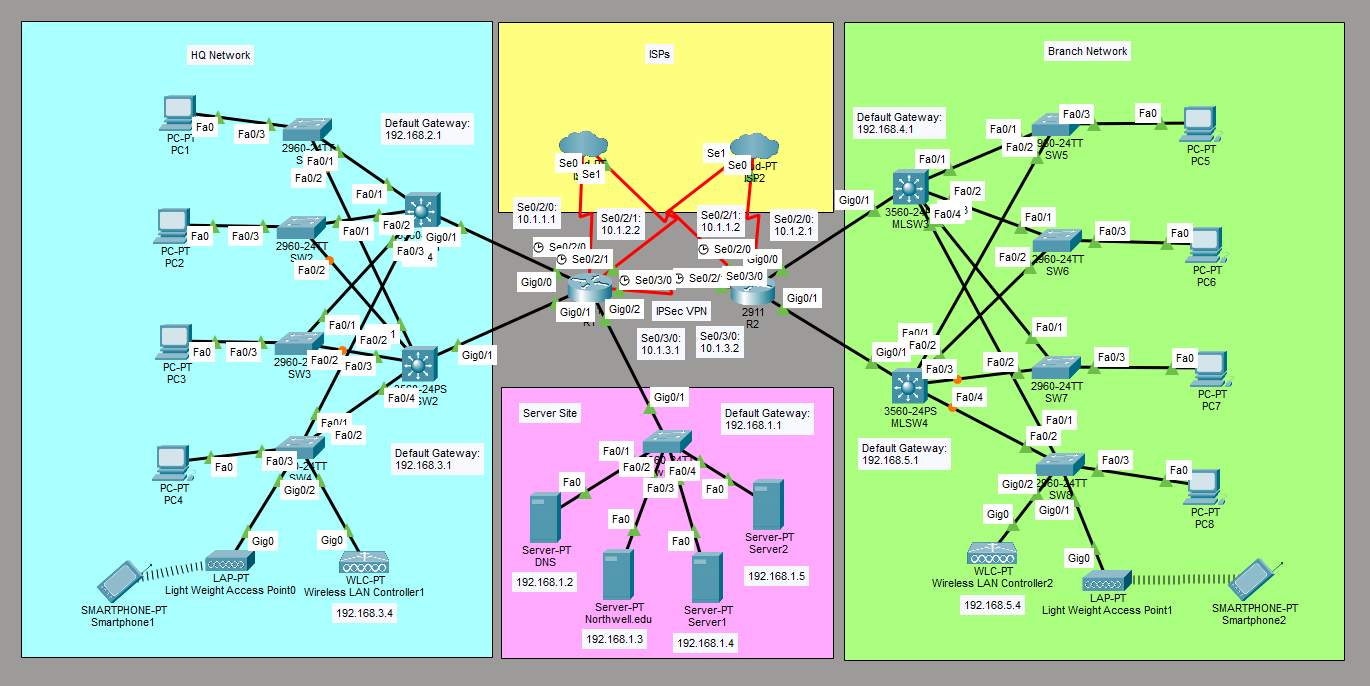
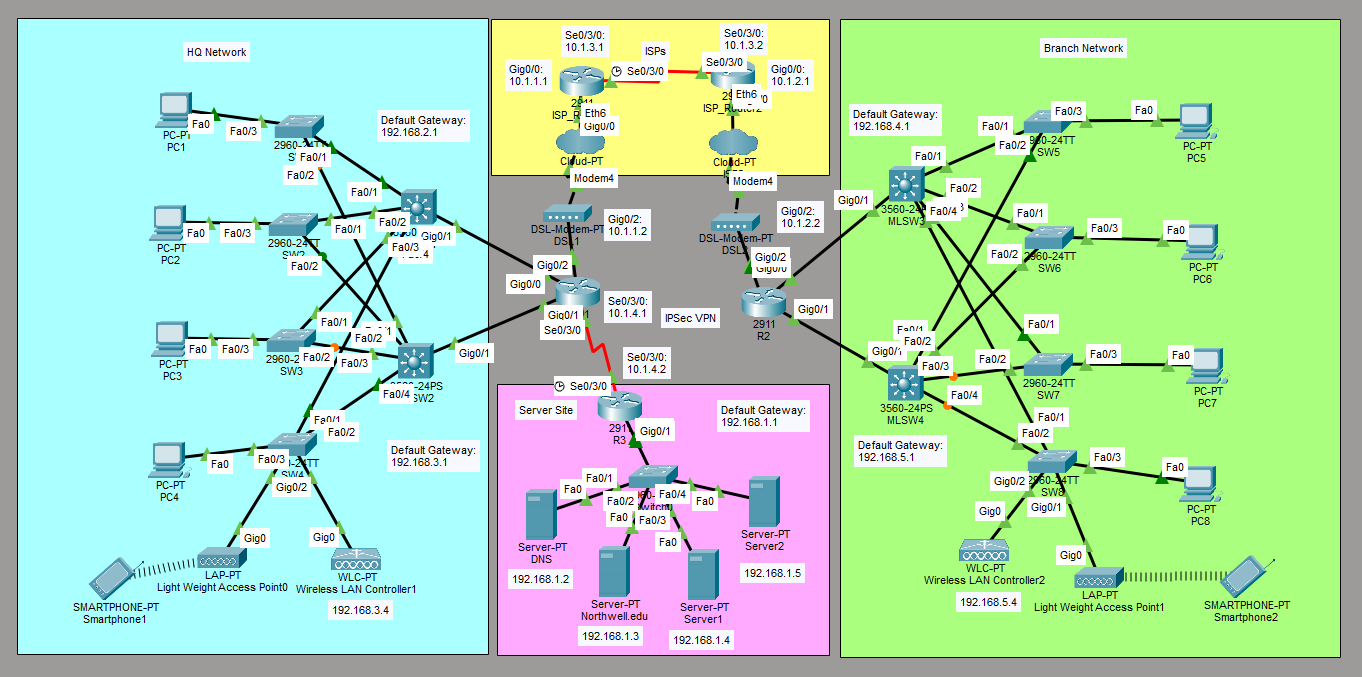
updated the Hospital Network Simulation article

Changed region(s): [[0.0, 0.0, 0.9868, 0.9926], [0.7401, 0.031, 0.8326, 0.0931], [0.1233, 0.062, 0.185, 0.0931]]

diff --git a/docs/index.md b/docs/index.md
@@ -5,22 +5,49 @@ This is a lab to configure a hospital network in Cisco Packet Tracer. This simul
 
 ## IP Address of the Routers
 R1: 
-- Interface: Se0/2/0
-	- IPv4 Address: 10.1.1.1
+- Interface: Gig0/0
+	- IPv4 Address: 192.168.2.1
 	- Subnet Mask: 255.255.255.0
-- Interface: Se0/2/1
+- Interface: Gig0/1
+	- IPv4 Address: 192.168.3.1
+	- Subnet Mask: 255.255.255.0
+- Interface: Gig0/2
+	- IPv4 Address: 10.1.1.2
+	- Subnet Mask: 255.255.255.0
+- Interface: Se0/3/0
+	- IPv4 Address: 10.1.4.1
+	- Subnet Mask: 255.255.255.0
+
+R2: 
+- Interface: Gig0/0
+	- IPv4 Address: 192.168.4.1
+	- Subnet Mask: 255.255.255.0
+- Interface: Gig0/1
+	- IPv4 Address: 192.168.5.1
+	- Subnet Mask: 255.255.255.0
+- Interface: Gig0/2
 	- IPv4 Address: 10.1.2.2
+	- Subnet Mask: 255.255.255.0
+
+R3: 
+- Interface: Gig0/0
+	- IPv4 Address: 192.168.1.1
+	- Subnet Mask: 255.255.255.0
+- Interface: Se0/3/0
+	- IPv4 Address: 10.1.4.2
+	- Subnet Mask: 255.255.255.0
+
+ISP_Router1: 
+- Interface: Gig0/0
+	- IPv4 Address: 10.1.1.1
 	- Subnet Mask: 255.255.255.0
 - Interface: Se0/3/0
 	- IPv4 Address: 10.1.3.1
 	- Subnet Mask: 255.255.255.0
 
-R2: 
-- Interface: Se0/2/0
+ISP_Router2: 
+- Interface: Gig0/0
 	- IPv4 Address: 10.1.2.1
-	- Subnet Mask: 255.255.255.0
-- Interface: Se0/2/1
-	- IPv4 Address: 10.1.1.2
 	- Subnet Mask: 255.255.255.0
 - Interface: Se0/3/0
 	- IPv4 Address: 10.1.3.2
@@ -51,58 +78,121 @@ Server2
 ## Configure IP Address of the Routers
 Configure the IP address of the interfaces of the routers.
 
-Interface Se0/2/0 on R1:
+Interface Gig0/0 on R1:
 ```
 R1# conf t
-R1(config)# int Se0/2/0
-R1(config-if)# ip add 10.1.1.1 255.255.255.0
+R1(config)# int Gig0/0
+R1(config-if)# ip add 192.168.2.1 255.255.255.0
 R1(config-if)# no shut
 R1(config-if)# exit
 ```
 
-Interface Se0/2/1 on R1:
+Interface Gig0/1 on R1:
 ```
 R1# conf t
-R1(config)# int Se0/2/1
-R1(config-if)# ip add 10.1.2.2 255.255.255.0
+R1(config)# int Gig0/1
+R1(config-if)# ip add 192.168.3.1 255.255.255.0
 R1(config-if)# no shut
 R1(config-if)# exit
+```
+
+Interface Gig0/2 on R1:
+```
+R1# conf t
+R1(config)# int Gig0/2
+R1(config-if)# ip add 10.1.1.2 255.255.255.0
+R1(config-if)# no shut
+R1(config-if)# end
 ```
 
 Interface Se0/3/0 on R1:
 ```
 R1# conf t
 R1(config)# int Se0/3/0
-R1(config-if)# ip add 10.1.3.1 255.255.255.0
+R1(config-if)# ip add 10.1.4.1 255.255.255.0
 R1(config-if)# no shut
 R1(config-if)# end
 ```
 
-Interface Se0/2/0 on R2:
+Interface Gig0/0 on R2:
 ```
 R2# conf t
-R2(config)# int Se0/2/0
-R2(config-if)# ip add 10.1.2.1 255.255.255.0
+R2(config)# int Gig0/0
+R2(config-if)# ip add 192.168.4.1 255.255.255.0
 R2(config-if)# no shut
 R2(config-if)# exit
 ```
 
-Interface Se0/2/1 on R2:
+Interface Gig0/1 on R2:
 ```
 R2# conf t
-R2(config)# int Se0/2/1
-R2(config-if)# ip add 10.1.1.2 255.255.255.0
+R2(config)# int Gig0/1
+R2(config-if)# ip add 192.168.5.1 255.255.255.0
 R2(config-if)# no shut
 R2(config-if)# exit
 ```
 
-Interface Se0/3/0 on R2:
+Interface Gig0/2 on R2:
 ```
 R2# conf t
-R2(config)# int Se0/3/0
-R2(config-if)# ip add 10.1.3.2 255.255.255.0
+R2(config)# int Gig0/2
+R2(config-if)# ip add 10.1.2.2 255.255.255.0
 R2(config-if)# no shut
-R2(config-if)# end
+R2(config-if)# exit
+```
+
+Interface Gig0/0 on R3:
+```
+R3# conf t
+R3(config)# int Gig0/0
+R3(config-if)# ip add 192.168.1.1 255.255.255.0
+R3(config-if)# no shut
+R3(config-if)# exit
+```
+
+Interface Se0/3/0 on R3:
+```
+R3# conf t
+R3(config)# int Se0/3/0
+R3(config-if)# ip add 10.1.4.2 255.255.255.0
+R3(config-if)# no shut
+R3(config-if)# exit
+```
+
+Interface Gig0/0 on ISP_Router1:
+```
+ISP_Router1# conf t
+ISP_Router1(config)# int Gig0/0
+ISP_Router1(config-if)# ip add 10.1.1.1 255.255.255.0
+ISP_Router1(config-if)# no shut
+ISP_Router1(config-if)# exit
+```
+
+Interface Se0/3/0 on ISP_Router1:
+```
+ISP_Router1# conf t
+ISP_Router1(config)# int Se0/3/0
+ISP_Router1(config-if)# ip add 10.1.3.1 255.255.255.0
+ISP_Router1(config-if)# no shut
+ISP_Router1(config-if)# exit
+```
+
+Interface Gig0/0 on ISP_Router2:
+```
+ISP_Router2# conf t
+ISP_Router2(config)# int Gig0/0
+ISP_Router2(config-if)# ip add 10.1.2.1 255.255.255.0
+ISP_Router2(config-if)# no shut
+ISP_Router2(config-if)# exit
+```
+
+Interface Se0/3/0 on ISP_Router2:
+```
+ISP_Router2# conf t
+ISP_Router2(config)# int Se0/3/0
+ISP_Router2(config-if)# ip add 10.1.3.2 255.255.255.0
+ISP_Router2(config-if)# no shut
+ISP_Router2(config-if)# exit
 ```
 
 ## Configure IP Address of the Servers
@@ -194,8 +284,7 @@ Configure OSPF on R1:
 R1# conf t
 R1(config)# router ospf 1
 R1(config-router)# network 10.1.1.0 0.0.0.255 area 0
-R1(config-router)# network 10.1.2.0 0.0.0.255 area 0
-R1(config-router)# network 192.168.1.0 0.0.0.255 area 0
+R1(config-router)# network 10.1.4.0 0.0.0.255 area 0
 R1(config-router)# network 192.168.2.0 0.0.0.255 area 0
 R1(config-router)# network 192.168.3.0 0.0.0.255 area 0
 R1(config-router)# end
@@ -205,11 +294,37 @@ Configure OSPF on R2:
 ```
 R2# conf t
 R2(config)# router ospf 1
-R2(config-router)# network 10.1.1.0 0.0.0.255 area 0
 R2(config-router)# network 10.1.2.0 0.0.0.255 area 0
 R2(config-router)# network 192.168.4.0 0.0.0.255 area 0
 R2(config-router)# network 192.168.5.0 0.0.0.255 area 0
 R2(config-router)# end
+```
+
+Configure OSPF on R3:
+```
+R3# conf t
+R3(config)# router ospf 1
+R3(config-router)# network 192.168.1.0 0.0.0.255 area 0
+R3(config-router)# network 10.1.4.0 0.0.0.255 area 0
+R3(config-router)# end
+```
+
+Configure OSPF on ISP_Router1:
+```
+ISP_Router1# conf t
+ISP_Router1(config)# router ospf 1
+ISP_Router1(config-router)# network 10.1.1.0 0.0.0.255 area 0
+ISP_Router1(config-router)# network 10.1.3.0 0.0.0.255 area 0
+ISP_Router1(config-router)# end
+```
+
+Configure OSPF on ISP_Router2:
+```
+ISP_Router2# conf t
+ISP_Router2(config)# router ospf 1
+ISP_Router2(config-router)# network 10.1.2.0 0.0.0.255 area 0
+ISP_Router2(config-router)# network 10.1.3.0 0.0.0.255 area 0
+ISP_Router2(config-router)# end
 ```
 
 ## Configure DNS and Web Servers
@@ -261,6 +376,7 @@ R1# reload
 
 Configure ACL 100 to identify interesting traffic on R1:
 ```
+R1# conf t
 R1(config)# access-list 110 permit ip 192.168.2.0 0.0.0.255 192.168.4.0 0.0.0.255
 R1(config)# access-list 110 permit ip 192.168.2.0 0.0.0.255 192.168.5.0 0.0.0.255
 R1(config)# access-list 110 permit ip 192.168.3.0 0.0.0.255 192.168.4.0 0.0.0.255
@@ -274,7 +390,7 @@ R1(config-isakmp)# encryption aes 256
 R1(config-isakmp)# authentication pre-share
 R1(config-isakmp)# group 5
 R1(config-isakmp)# exit
-R1(config)# crypto isakmp key vpnpa55 address 10.1.3.2
+R1(config)# crypto isakmp key vpnpa55 address 10.1.2.2
 ```
 
 Configure the IKE phase 2 IPsec policy on R1:
@@ -286,7 +402,7 @@ Configure the IKE phase 1 ISAKMP properties on R1:
 ```
 R1(config)# crypto map VPN-MAP 10 ipsec-isakmp
 R1(config-crypto-map)# description VPN connection to R2
-R1(config-crypto-map)# set peer 10.1.3.2
+R1(config-crypto-map)# set peer 10.1.2.2
 R1(config-crypto-map)# set transform-set VPN-SET
 R1(config-crypto-map)# match address 110
 R1(config-crypto-map)# exit
@@ -294,7 +410,7 @@ R1(config-crypto-map)# exit
 
 Configure the VPN-MAP crypto map on the outgoing Serial 0/3/0 interface:
 ```
-R1(config)# int Se0/3/0
+R1(config)# int Gig0/2
 R1(config-if)# crypto map VPN-MAP
 R1(config-if)# end
 ```
@@ -317,6 +433,7 @@ R2# reload
 
 Configure ACL 100 to identify interesting traffic on R2:
 ```
+R2# conf t
 R2(config)# access-list 110 permit ip 192.168.4.0 0.0.0.255 192.168.2.0 0.0.0.255
 R2(config)# access-list 110 permit ip 192.168.4.0 0.0.0.255 192.168.3.0 0.0.0.255
 R2(config)# access-list 110 permit ip 192.168.5.0 0.0.0.255 192.168.2.0 0.0.0.255
@@ -330,7 +447,7 @@ R2(config-isakmp)# encryption aes 256
 R2(config-isakmp)# authentication pre-share
 R2(config-isakmp)# group 5
 R2(config-isakmp)# exit
-R2(config)# crypto isakmp key vpnpa55 address 10.1.3.1
+R2(config)# crypto isakmp key vpnpa55 address 10.1.1.2
 ```
 
 Configure the IKE phase 2 IPsec policy on R2:
@@ -342,17 +459,17 @@ Configure the IKE phase 1 ISAKMP properties on R2:
 ```
 R2(config)# crypto map VPN-MAP 10 ipsec-isakmp
 R2(config-crypto-map)# description VPN connection to R1
-R2(config-crypto-map)# set peer 10.1.3.1
+R2(config-crypto-map)# set peer 10.1.1.2
 R2(config-crypto-map)# set transform-set VPN-SET
 R2(config-crypto-map)# match address 110
 R2(config-crypto-map)# exit
 ```
 
-Configure the VPN-MAP crypto map on the outgoing Serial 0/3/0 interface:
+Configure the VPN-MAP crypto map on the outgoing GigabitEthernet 0/2 interface:
 ```
-R2(config)# int Se0/3/0
+R2(config)# int Gig0/2
 R2(config-if)# crypto map VPN-MAP
-R1(config)# end
+R2(config)# end
 ```
 
 **Verify the IPSec VPN**
@@ -366,7 +483,7 @@ On PC1, go to Desktop -> Command Prompt.
 
 Ping PC5:
 ```
-C:\> ping 192.168.4.15
+C:\> ping 192.168.4.16
 ```
 
  Verify the tunnel after interesting traffic on R1:
@@ -385,7 +502,7 @@ On PC5, go to Desktop -> Command Prompt.
 
 Ping PC1:
 ```
-C:\> ping 192.168.3.14
+C:\> ping 192.168.2.15
 ```
 
  Verify the tunnel after interesting traffic on R1:
@@ -406,4 +523,19 @@ R1# copy run start
 Save the config for R2:
 ```
 R2# copy run start
+```
+
+Save the config for R3:
+```
+R3# copy run start
+```
+
+Save the config for ISP_Router1:
+```
+ISP_Router1# copy run start
+```
+
+Save the config for ISP_Router2:
+```
+ISP_Router2# copy run start
 ```
